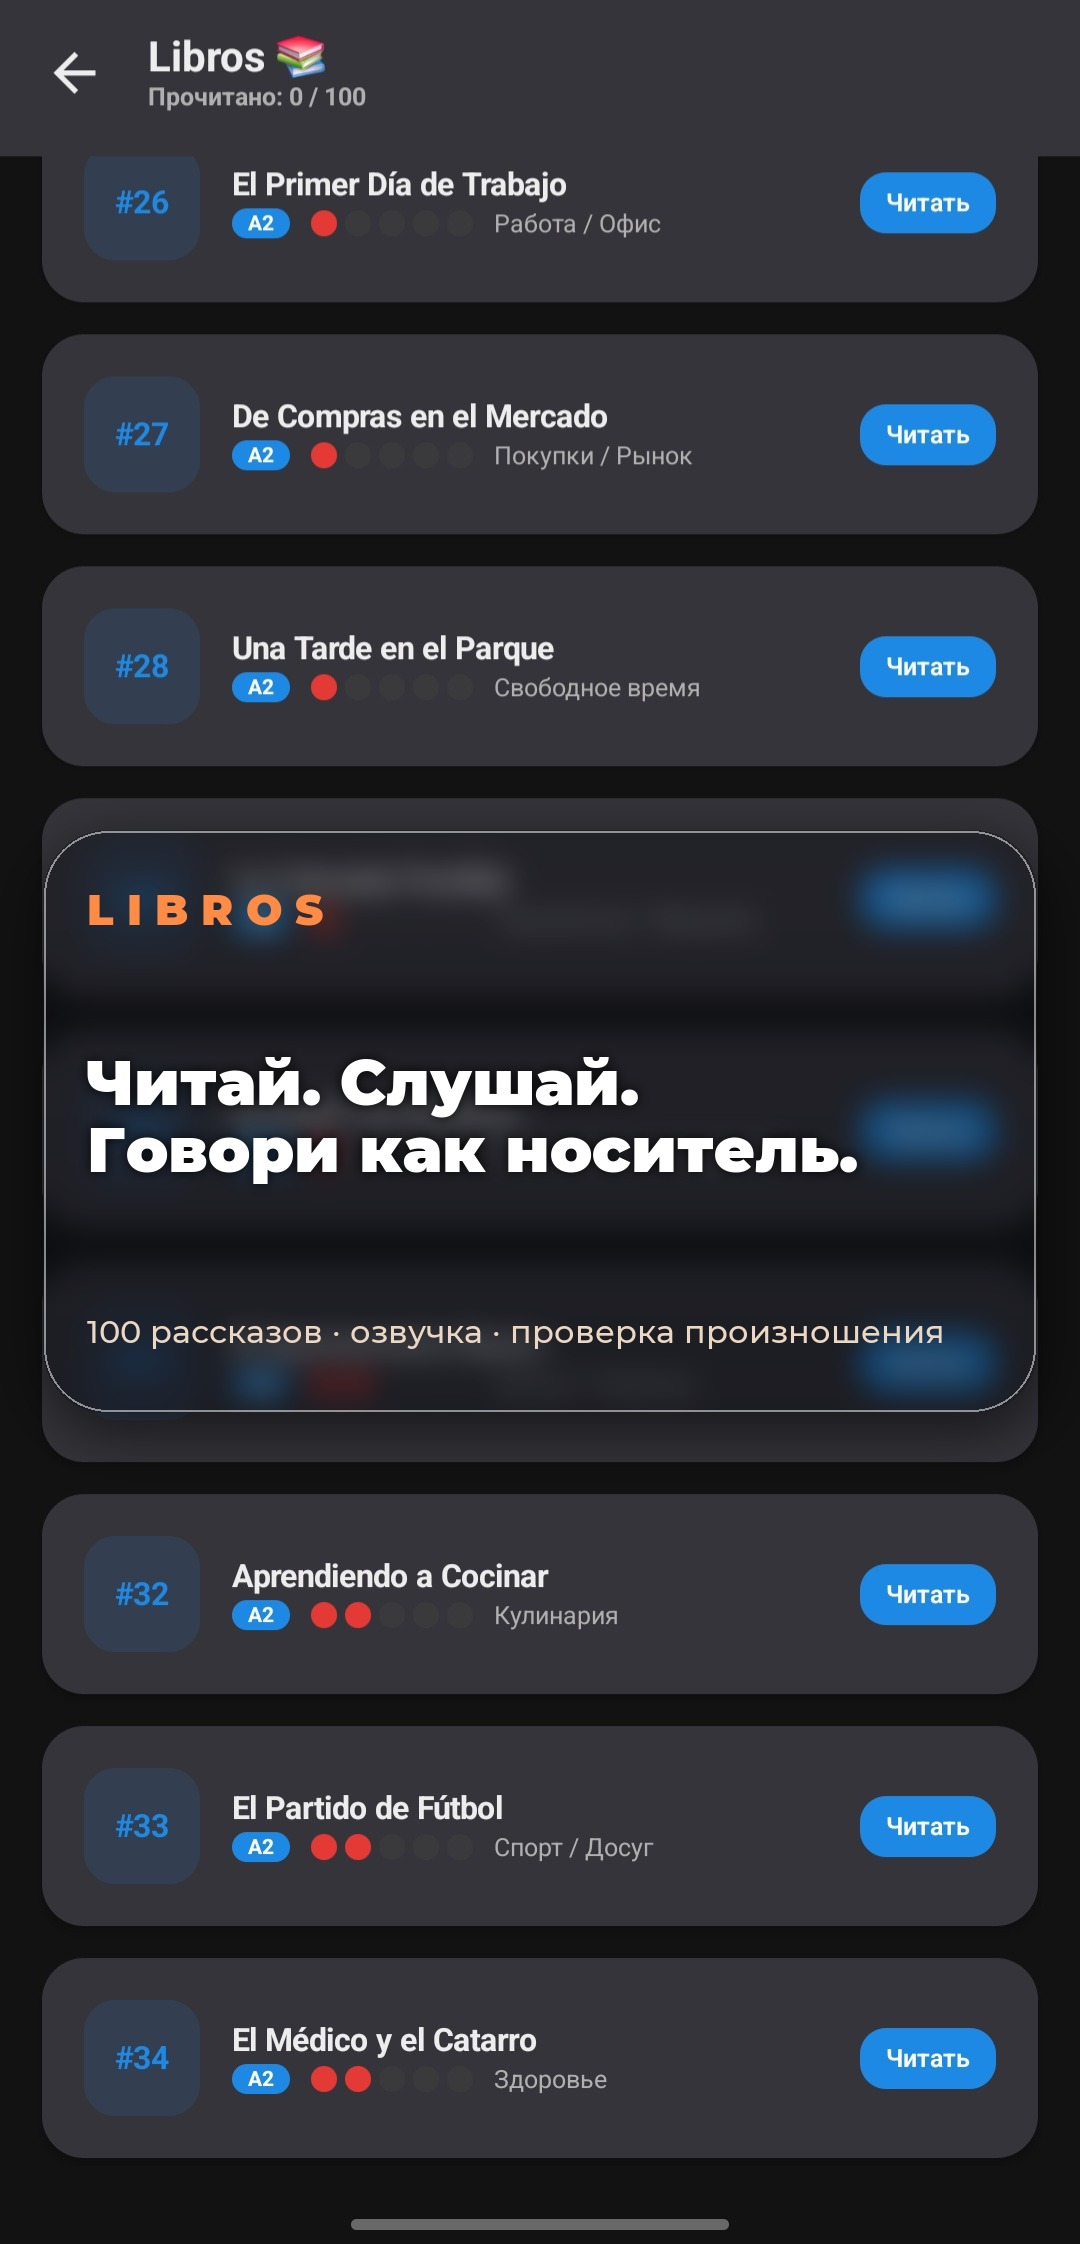
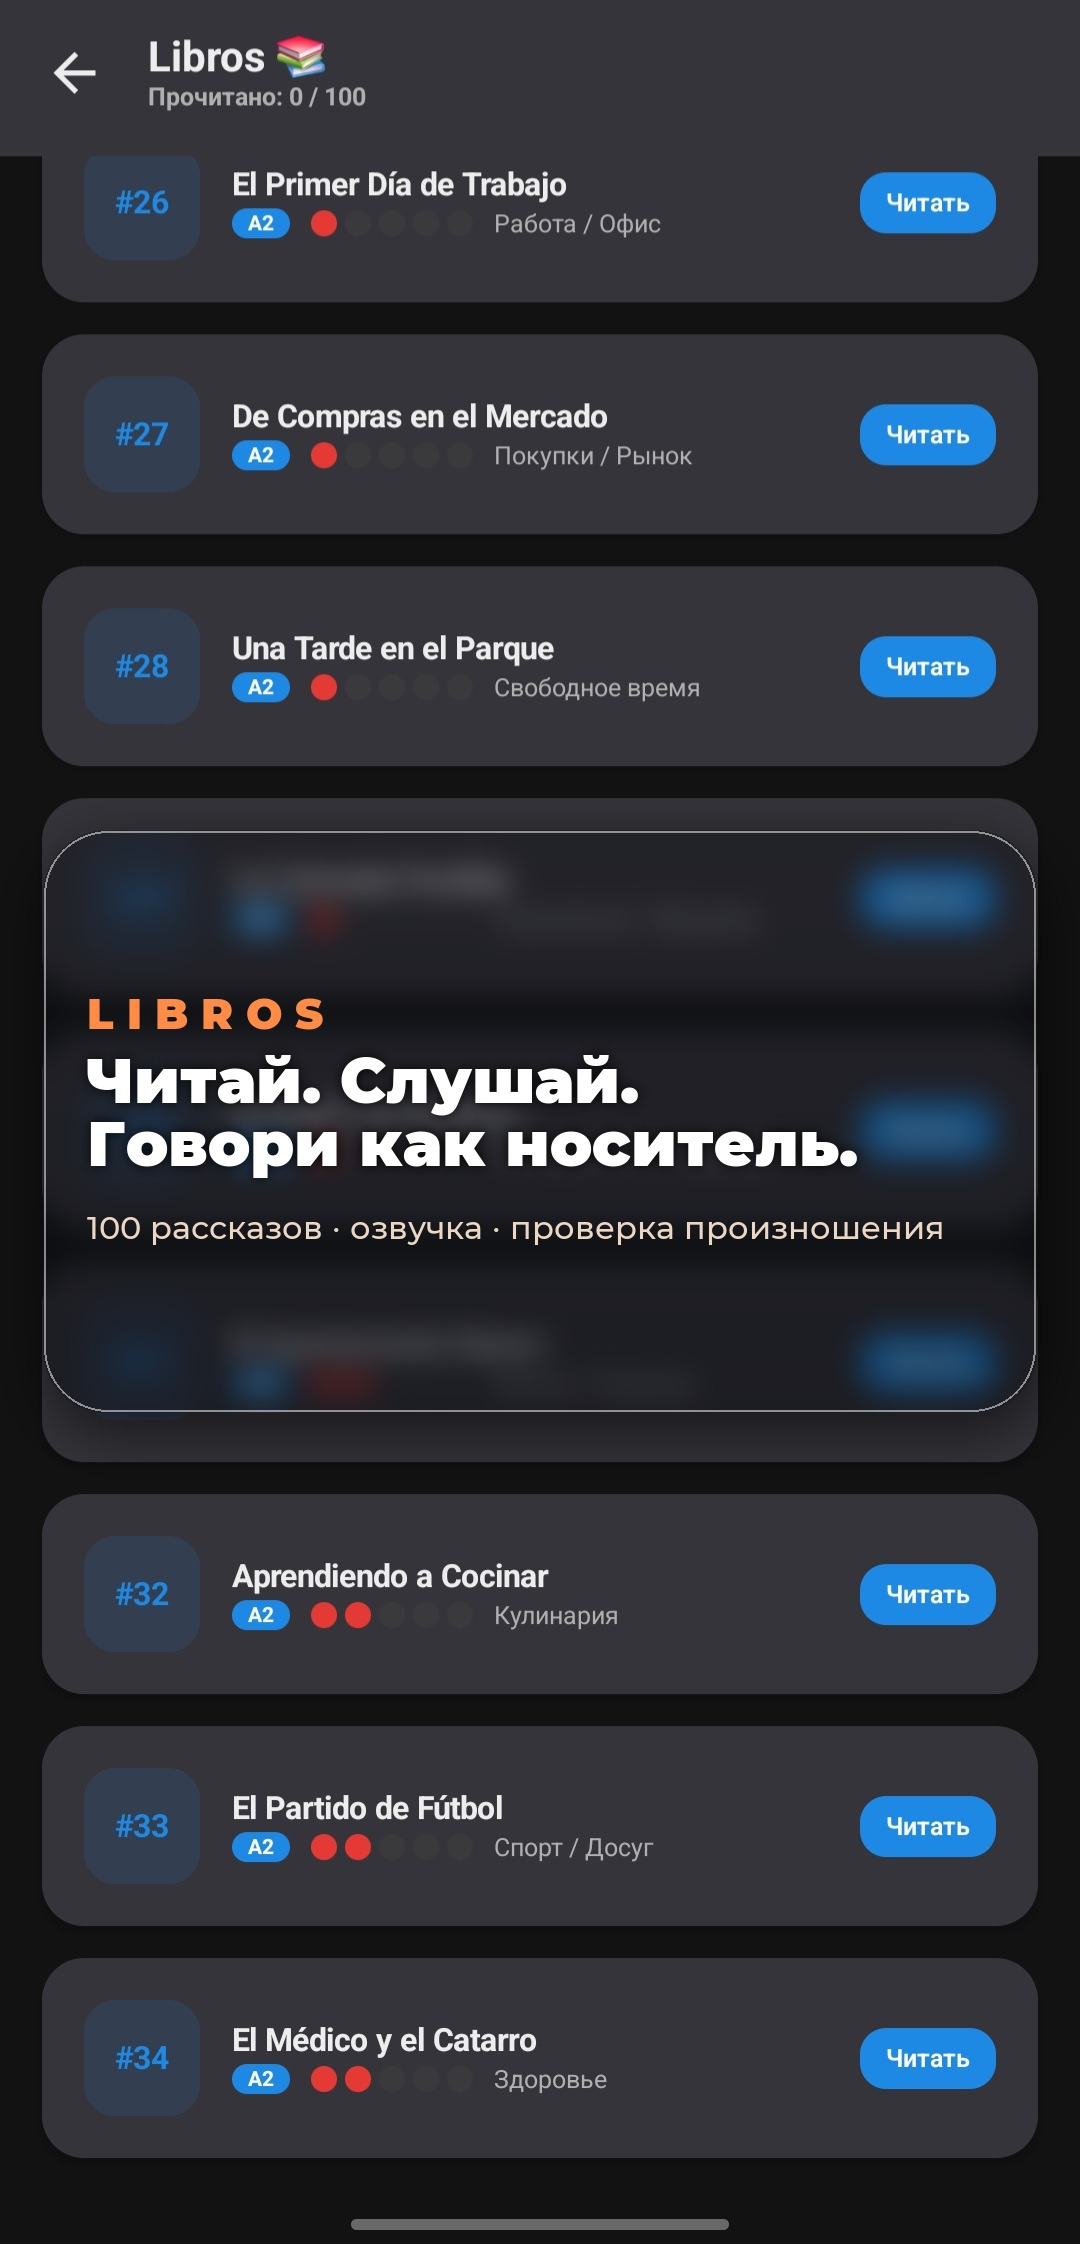
Play assets: tighten typography into one premium block
Three-zone distribution (eyebrow top / headline middle / subtitle
bottom) made the text feel disconnected. Reverted to a tight group:
eyebrow → headline → subtitle as ONE unit, gaps proportional to font
size (gap = 0.40× headline for eyebrow→headline, 0.55× for
headline→subtitle), whole group vertically centered with equal air
above and below. Standard Apple/Stripe/Linear ad layout.

Changed region(s): [[0.3361, 0.4679, 0.8556, 0.5615], [0.0611, 0.3743, 0.3056, 0.5615], [0.1528, 0.5927, 0.1833, 0.6239]]

diff --git a/docs/play_assets/_make_screenshot_banners.py b/docs/play_assets/_make_screenshot_banners.py
@@ -166,30 +166,32 @@ def add_glass_banner(img: Image.Image, eyebrow: str,
     sub_bbox = draw.textbbox((0, 0), subtitle, font=f_sub)
     sub_h    = sub_bbox[3] - sub_bbox[1]
 
-    # Anchor: eyebrow pinned high, subtitle pinned low, headline centered.
-    text_x      = banner_x + pad_x
-    top_inset    = int(banner_h * 0.11)
-    bottom_inset = int(banner_h * 0.11)
+    # ── Tight group: eyebrow → headline → subtitle, centered vertically ──
+    # Premium ad pattern: text reads as ONE block, not three floating zones.
+    text_x = banner_x + pad_x
 
-    eyebrow_y = banner_y + top_inset
-    sub_y_top = banner_y + banner_h - bottom_inset - sub_h
-    # headline block centered between eyebrow bottom and subtitle top
-    head_zone_top = eyebrow_y + eb_h
-    head_zone_bot = sub_y_top
-    head_y_top    = head_zone_top + ((head_zone_bot - head_zone_top) - head_total_h) // 2
+    gap_eb_head  = int(f_head.size  * 0.40)   # eyebrow → headline
+    gap_head_sub = int(f_head.size  * 0.55)   # headline → subtitle
+    line_gap     = int(head_line_h  * 0.10)   # between headline lines
+
+    head_block_h = head_line_h * len(head_lines) + line_gap * (len(head_lines) - 1)
+    block_h = eb_h + gap_eb_head + head_block_h + gap_head_sub + sub_h
+    block_y = banner_y + (banner_h - block_h) // 2
 
     # 1) eyebrow (warm orange)
+    eyebrow_y = block_y
     draw.text((text_x, eyebrow_y - eb_bbox[1]), eyebrow_spaced,
               font=f_eyebrow, fill=(255, 140, 70))
 
-    # 2) headline (white) — heavy glow shadow so it pops on see-through glass
-    y_cursor = head_y_top
+    # 2) headline — soft dark glow then white type on top
+    head_y_top = eyebrow_y + eb_h + gap_eb_head
     glow_layer = Image.new('RGBA', out.size, (0, 0, 0, 0))
     glow_draw  = ImageDraw.Draw(glow_layer)
+    y_cursor = head_y_top
     for ln, bbx in zip(head_lines, head_metrics):
         glow_draw.text((text_x, y_cursor - bbx[1]), ln,
                        font=f_head, fill=(0, 0, 0, 220))
-        y_cursor += head_line_h + int(head_line_h * 0.18)
+        y_cursor += head_line_h + line_gap
     glow_layer = glow_layer.filter(ImageFilter.GaussianBlur(6))
     out = Image.alpha_composite(out, glow_layer)
     draw = ImageDraw.Draw(out)
@@ -197,9 +199,10 @@ def add_glass_banner(img: Image.Image, eyebrow: str,
     for ln, bbx in zip(head_lines, head_metrics):
         draw.text((text_x, y_cursor - bbx[1]), ln,
                   font=f_head, fill=(255, 255, 255))
-        y_cursor += head_line_h + int(head_line_h * 0.18)
+        y_cursor += head_line_h + line_gap
 
-    # 3) subtitle (warm light), pinned near the bottom
+    # 3) subtitle (warm light)
+    sub_y_top = head_y_top + head_block_h + gap_head_sub
     draw.text((text_x, sub_y_top - sub_bbox[1]), subtitle,
               font=f_sub, fill=(235, 215, 195))
 
